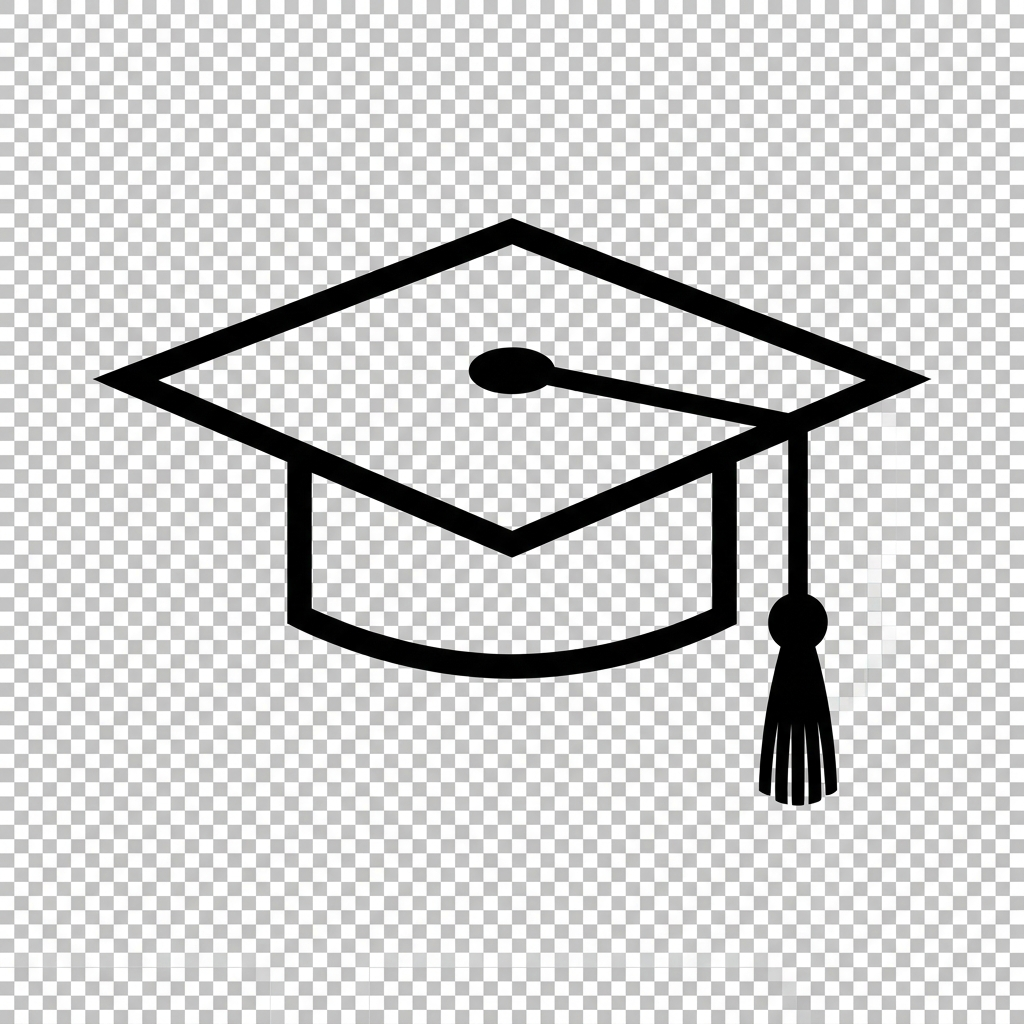
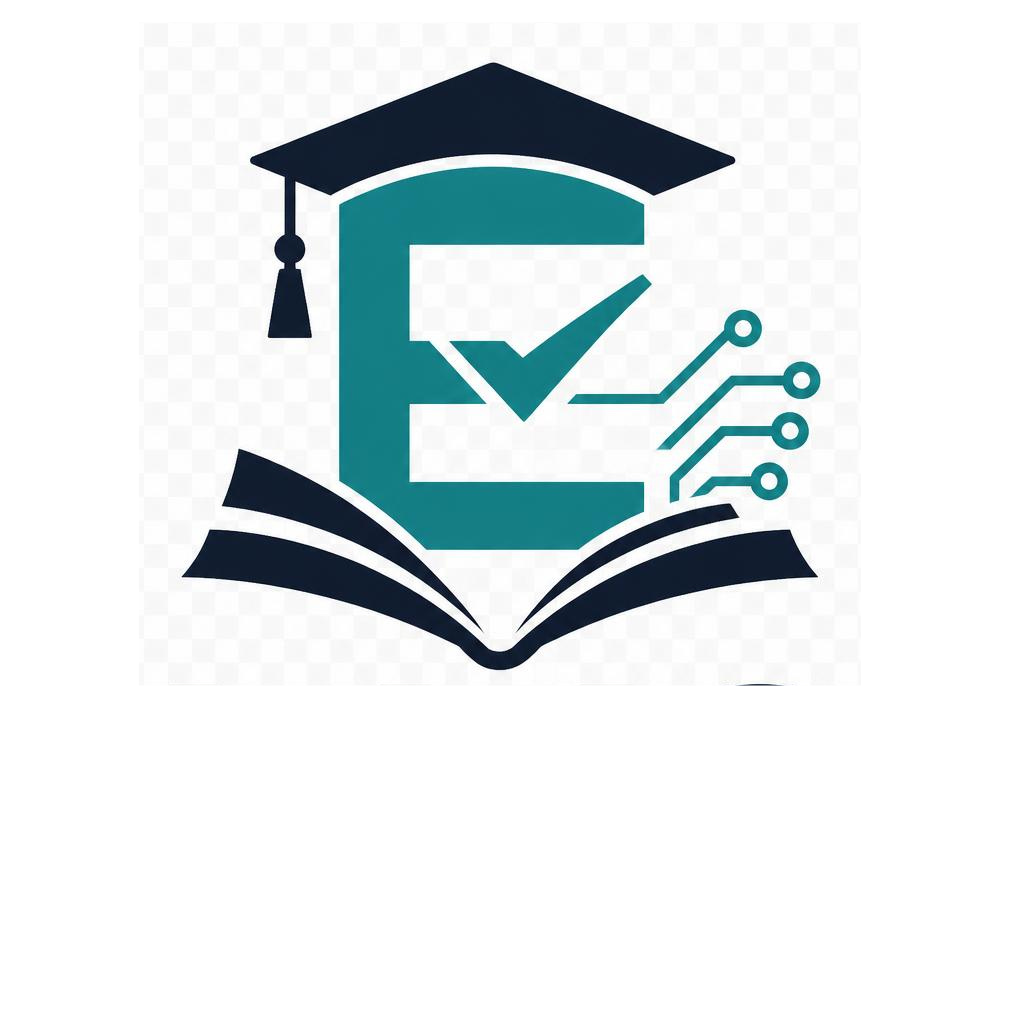
share file

diff --git a/LMSMobileApp/src/screens/student/TakeTestScreen.js b/LMSMobileApp/src/screens/student/TakeTestScreen.js
@@ -20,6 +20,39 @@ import { colors, spacing, fontSizes, borderRadius } from '../../theme/colors';
 import { Ionicons } from '@expo/vector-icons';
 import { WebView } from 'react-native-webview';
 
+// Helper to normalize different question types (case-insensitive and format-insensitive)
+const normalizeType = (type) => {
+    if (!type) return '';
+    const cleanType = type.toLowerCase().trim().replace(/[^a-z0-9]/g, '');
+    
+    if (cleanType === 'shortanswer' || cleanType === 'short_answer') return 'shortAnswer';
+    if (cleanType === 'paragraph' || cleanType === 'paragraphanswer') return 'paragraph';
+    if (cleanType === 'mcq' || cleanType === 'multiplechoice' || cleanType === 'multiplechoices') return 'mcq';
+    if (cleanType === 'checkbox' || cleanType === 'checkboxes') return 'checkbox';
+    if (cleanType === 'dropdown') return 'dropdown';
+    if (cleanType === 'datetime' || cleanType === 'dateandtime') return 'dateTime';
+    if (cleanType === 'rating') return 'rating';
+    if (cleanType === 'fileupload') return 'fileUpload';
+    if (cleanType === 'imagedisplaying' || cleanType === 'imagedisplay') return 'imageDisplay';
+    if (cleanType === 'videodisplaying' || cleanType === 'videodisplay') return 'videoDisplay';
+    if (cleanType === 'pdfdisplaying' || cleanType === 'pdfdisplay') return 'pdfDisplay';
+    if (cleanType === 'webpagedisplaying' || cleanType === 'webpagedisplay') return 'webpageDisplay';
+    if (cleanType === 'embeddedvideoyoutube' || cleanType === 'youtubedisplay') return 'youtubeDisplay';
+    if (cleanType === 'embeddedsmcontent' || cleanType === 'smdisplay') return 'smDisplay';
+    if (cleanType === 'audiolistening' || cleanType === 'audiodisplay') return 'audioDisplay';
+    if (cleanType === 'multifiledisplaying' || cleanType === 'multifiledisplay') return 'multiFileDisplay';
+    if (cleanType === 'screenshottaking' || cleanType === 'screenshot') return 'screenshot';
+    if (cleanType === 'screenrecording' || cleanType === 'screenrecord') return 'screenRecord';
+    if (cleanType === 'voicerecording' || cleanType === 'voicerecord') return 'voiceRecord';
+    if (cleanType === 'videorecording' || cleanType === 'videorecord') return 'videoRecord';
+    if (cleanType === 'audiocalling' || cleanType === 'audiocall') return 'audioCall';
+    if (cleanType === 'videocalling' || cleanType === 'videocall') return 'videoCall';
+    if (cleanType === 'textbasedaiagent' || cleanType === 'textaiagent') return 'textAIAgent';
+    if (cleanType === 'voicebasedaiagent' || cleanType === 'voiceaiagent') return 'voiceAIAgent';
+    
+    return type; // fallback
+};
+
 // Timer component
 const Timer = ({ durationMinutes, onTimeUp }) => {
     const [seconds, setSeconds] = useState(durationMinutes * 60);
@@ -115,7 +148,7 @@ const QuestionWrapper = ({ question, index, children, answer, onAnswer, onVoiceI
     return (
         <SectionCard style={styles.questionCard}>
             <View style={styles.qHeader}>
-                <Text style={styles.questionNum}>Q{index + 1}</Text>
+                <View />
                 
                 {/* Addon icons */}
                 <View style={styles.addonsRow}>
@@ -145,10 +178,16 @@ const QuestionWrapper = ({ question, index, children, answer, onAnswer, onVoiceI
             {translated ? (
                 <View style={styles.translatedContainer}>
                     <Text style={styles.translatedLabel}>Hindi Translation:</Text>
-                    <Text style={styles.questionTextTranslated}>{getTranslation(qText)}</Text>
+                    <Text style={styles.questionTextTranslated}>
+                        <Text style={styles.questionNum}>Q{index + 1}. </Text>
+                        {getTranslation(qText)}
+                    </Text>
                 </View>
             ) : (
-                <Text style={styles.questionText}>{qText}</Text>
+                <Text style={styles.questionText}>
+                    <Text style={styles.questionNum}>Q{index + 1}. </Text>
+                    {qText}
+                </Text>
             )}
 
             {/* Render Question Element Content */}
@@ -388,7 +427,7 @@ const TakeTestScreen = ({ route, navigation }) => {
             >
                 {pageQuestions.map((question, i) => {
                     const globalIndex = currentPage * QUESTIONS_PER_PAGE + i;
-                    const type = question.type;
+                    const type = normalizeType(question.type);
                     const curAns = answers[question._id];
 
                     return (

diff --git a/LMSMobileApp/src/components/common/GoogleDriveModal.js b/LMSMobileApp/src/components/common/GoogleDriveModal.js
@@ -96,20 +96,25 @@ const GoogleDriveModal = ({ isOpen, onClose, fileName, fileUri, toolType, onSave
     const handleConnect = async () => {
         try {
             await GoogleSignin.hasPlayServices();
-            const userInfo = await GoogleSignin.signIn();
+            const response = await GoogleSignin.signIn();
             const tokens = await GoogleSignin.getTokens();
             const token = tokens.accessToken;
 
+            const user = response.data ? response.data.user : response.user;
+            if (!user) {
+                throw new Error("No user info returned from Google Sign-In.");
+            }
+
             setAccessToken(token);
-            setGoogleUser(userInfo.user);
+            setGoogleUser(user);
 
             await AsyncStorage.setItem('lms_google_access_token', token);
-            await AsyncStorage.setItem('lms_google_user', JSON.stringify(userInfo.user));
+            await AsyncStorage.setItem('lms_google_user', JSON.stringify(user));
 
             setStep(2);
             setActiveTab(fileUri ? 'upload' : 'history');
             if (fileUri) {
-                autoSaveFlow(token, userInfo.user.email);
+                autoSaveFlow(token, user.email);
             } else {
                 loadHistoryRoot(token);
             }
@@ -122,7 +127,10 @@ const GoogleDriveModal = ({ isOpen, onClose, fileName, fileUri, toolType, onSave
             } else if (error.code === statusCodes.PLAY_SERVICES_NOT_AVAILABLE) {
                 Alert.alert("Play Services", "Google Play Services are not available on this device.");
             } else {
-                Alert.alert("Authentication Failed", "Please make sure your SHA-1 is registered and your Google Client ID is correct.");
+                Alert.alert(
+                    "Authentication Failed",
+                    `Error Code: ${error.code || 'Unknown'}\nMessage: ${error.message || 'No message'}\n\nPlease check your Google Console configurations.`
+                );
             }
         }
     };
@@ -392,7 +400,10 @@ const GoogleDriveModal = ({ isOpen, onClose, fileName, fileUri, toolType, onSave
             const lmsRes = await fetch(`https://www.googleapis.com/drive/v3/files?q=${lmsQuery}&fields=files(id)`, {
                 headers: { Authorization: `Bearer ${token}` }
             });
-            if (!lmsRes.ok) throw new Error("Could not find LMS folder");
+            if (!lmsRes.ok) {
+                const errText = await lmsRes.text();
+                throw new Error(`LMS Folder Query HTTP ${lmsRes.status}: ${errText}`);
+            }
             const lmsData = await lmsRes.json();
             if (!lmsData.files || lmsData.files.length === 0) {
                 setLoadingHistory(false);
@@ -405,12 +416,15 @@ const GoogleDriveModal = ({ isOpen, onClose, fileName, fileUri, toolType, onSave
             const datesRes = await fetch(`https://www.googleapis.com/drive/v3/files?q=${datesQuery}&fields=files(id, name)&orderBy=name+desc`, {
                 headers: { Authorization: `Bearer ${token}` }
             });
-            if (!datesRes.ok) throw new Error("Could not load date folders");
+            if (!datesRes.ok) {
+                const errText = await datesRes.text();
+                throw new Error(`Date Folders Query HTTP ${datesRes.status}: ${errText}`);
+            }
             const datesData = await datesRes.json();
             setDateFolders(datesData.files || []);
         } catch (err) {
             console.error("Load history error:", err);
-            Alert.alert("History Error", "Failed to retrieve history folders.");
+            Alert.alert("History Error", `Failed to retrieve history folders.\n\nDetail: ${err.message}`);
         } finally {
             setLoadingHistory(false);
         }

diff --git a/LMSMobileApp/src/screens/LoginScreen.js b/LMSMobileApp/src/screens/LoginScreen.js
@@ -58,7 +58,7 @@ const LoginScreen = ({ navigation }) => {
                     <View style={styles.bannerDecor1} />
                     <View style={styles.bannerDecor2} />
                     <View style={styles.logoContainer}>
-                        <Ionicons name="school" size={44} color={colors.white} />
+                        <Image source={require('../../assets/logo.jpg')} style={styles.logoImage} resizeMode="contain" />
                     </View>
                     <Text style={styles.bannerTitle}>Welcome to LMS</Text>
                     <Text style={styles.bannerSubtitle}>Login to access your account</Text>
@@ -199,15 +199,25 @@ const styles = StyleSheet.create({
         backgroundColor: 'rgba(255,255,255,0.04)',
     },
     logoContainer: {
-        width: 88,
-        height: 88,
-        borderRadius: 44,
-        backgroundColor: 'rgba(99,102,241,0.35)',
+        width: 110,
+        height: 110,
+        borderRadius: borderRadius.md,
+        backgroundColor: colors.white,
         alignItems: 'center',
         justifyContent: 'center',
         marginBottom: spacing.md,
+        overflow: 'hidden',
         borderWidth: 2,
-        borderColor: 'rgba(255,255,255,0.2)',
+        borderColor: 'rgba(255,255,255,0.8)',
+        elevation: 4,
+        shadowColor: '#000',
+        shadowOffset: { width: 0, height: 2 },
+        shadowOpacity: 0.15,
+        shadowRadius: 4,
+    },
+    logoImage: {
+        width: '90%',
+        height: '90%',
     },
     bannerTitle: {
         fontSize: fontSizes.xxl,

diff --git a/LMSMobileApp/src/screens/student/tools/ScreenRecorderPage.js b/LMSMobileApp/src/screens/student/tools/ScreenRecorderPage.js
@@ -227,6 +227,7 @@ const ScreenRecorderPage = ({ route, navigation }) => {
     const shareFile = async (uri, filename) => {
         try {
             await Share.share({
+                message: uri,
                 url: uri,
                 title: filename
             });

diff --git a/LMSMobileApp/src/screens/student/tools/ScreenshotToolPage.js b/LMSMobileApp/src/screens/student/tools/ScreenshotToolPage.js
@@ -218,6 +218,7 @@ const ScreenshotToolPage = ({ route, navigation }) => {
     const shareFile = async (uri, filename) => {
         try {
             await Share.share({
+                message: uri,
                 url: uri,
                 title: filename
             });

diff --git a/LMSMobileApp/src/screens/student/tools/VideoRecorderPage.js b/LMSMobileApp/src/screens/student/tools/VideoRecorderPage.js
@@ -227,6 +227,7 @@ const VideoRecorderPage = ({ route, navigation }) => {
     const shareFile = async (uri, filename) => {
         try {
             await Share.share({
+                message: uri,
                 url: uri,
                 title: filename
             });

diff --git a/LMSMobileApp/src/screens/student/tools/VoiceRecorderPage.js b/LMSMobileApp/src/screens/student/tools/VoiceRecorderPage.js
@@ -313,6 +313,7 @@ const VoiceRecorderPage = ({ route, navigation }) => {
     const shareFile = async (uri, filename) => {
         try {
             await Share.share({
+                message: uri,
                 url: uri,
                 title: filename
             });

diff --git a/LMSMobileApp/src/screens/student/tools/WebCallingPage.js b/LMSMobileApp/src/screens/student/tools/WebCallingPage.js
@@ -371,6 +371,7 @@ const WebCallingPage = ({ route, navigation }) => {
     const shareFile = async (uri, filename) => {
         try {
             await Share.share({
+                message: uri,
                 url: uri,
                 title: filename
             });